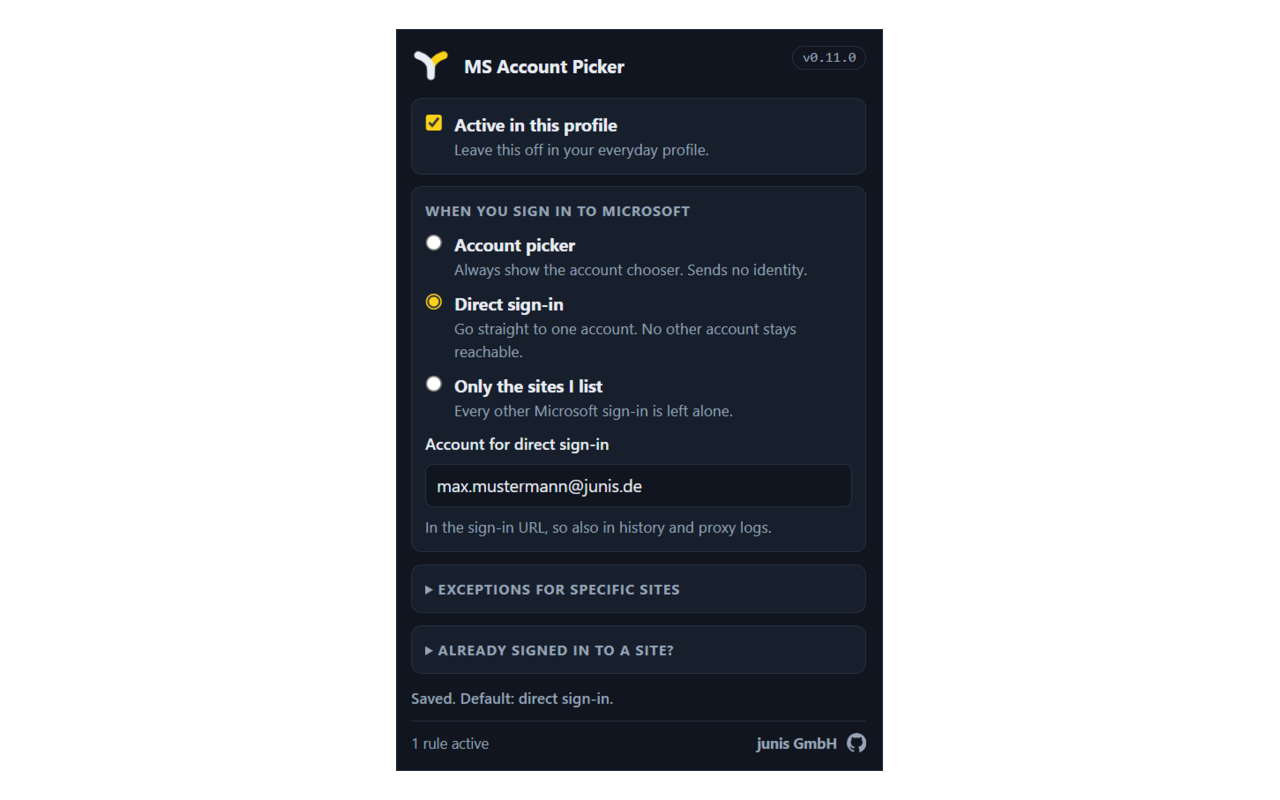
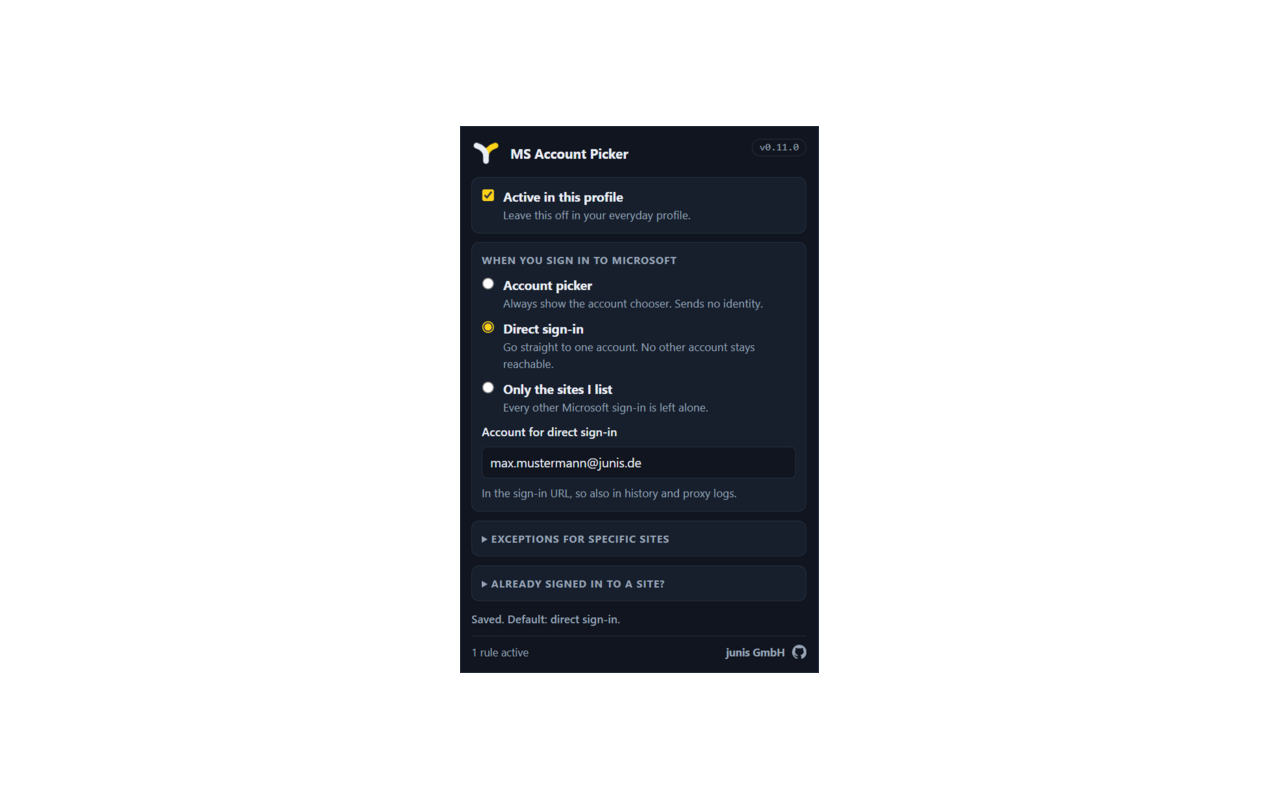
docs: add the third screenshot and mark 0.11.0 uploaded
A capture of "only the sites I list" with the site list open, so every mode
the store description names now appears in a screenshot. The register row
for 0.11.0 moves to "uploaded, unlisted" — confirmed, not inferred from the
extension ID existing.

All three share one scale factor so the UI does not change size as a viewer
swipes. The new capture is the tallest at 1186px and therefore sets it, which
shrinks the other two; 01-default and 02-direct were rebuilt from their
sources rather than resampled, so nothing is scaled twice.

The empty canvas around the shorter two is not a mistake to fix later: a popup
is narrow and tall, and no scale makes that aspect fill 1280x800. Filling it
would mean captions beside the popup, and caption text needs a known
background — so it is transparency or captions, not both. Recorded in
store-listing.md.

Changed region(s): [[0.3125, 0.0312, 0.6875, 0.9688]]

diff --git a/docs/store-listing.md b/docs/store-listing.md
@@ -141,10 +141,12 @@ This is the sign-in endpoint whose authorize request the extension modifies, and
 | Asset | Requirement | State |
 | --- | --- | --- |
 | Store icon | 128×128 PNG | ✅ `src/icons/icon-128.png` |
-| Screenshots | 1280×800 or 640×400, at least one, at most five | ✅ `assets/store/01-default.png`, `assets/store/02-direct.png` — taken from 0.11.0 |
+| Screenshots | 1280×800 or 640×400, at least one, at most five | ✅ three, from 0.11.0: `01-default`, `02-direct`, `03-listed` under `assets/store/` |
 | Small promo tile | 440×280 PNG, optional | 🟡 optional, not planned |
 
-The two shipped screenshots are captures of the real popup, composed onto a 1280×800 canvas with a **transparent** ground — the popup is opaque, so it reads as a card whether the store flattens onto white or onto grey (checked both). They show the default state and the *only the sites I list* mode with its account field. The account in them is a fictional person at the vendor's own domain, not a customer's.
+The three shipped screenshots are captures of the real popup, composed onto a 1280×800 canvas with a **transparent** ground — the popup is opaque, so it reads as a card whether the store flattens onto white or onto grey (checked both). They show the default state, direct sign-in, and *only the sites I list* with the site list open — one per mode the description names.
+
+All three share one scale factor, so the UI does not change size as a viewer swipes through them. The tallest capture sets that factor, which is why the two shorter ones sit in empty canvas: a popup is narrow and tall, and no scale makes that aspect fill a 1280×800 frame. Filling the frame would mean captions beside the popup, and caption text needs a known background — so it is transparency **or** captions, not both. The account in them is a fictional person at the vendor's own domain, not a customer's.
 
 Regenerate after a version bump: the version pill in the header is part of the image, so a screenshot taken from an older build advertises a version the store does not serve.
 

diff --git a/docs/deployment.md b/docs/deployment.md
@@ -106,7 +106,7 @@ Demonstrated on 2026-08-18: two packs byte-identical, and identical again after 
 
 | Version | Date | SHA-256 of the ZIP | Store item state | Approved by |
 | --- | --- | --- | --- | --- |
[4 lines of base64/hex data omitted]
 
